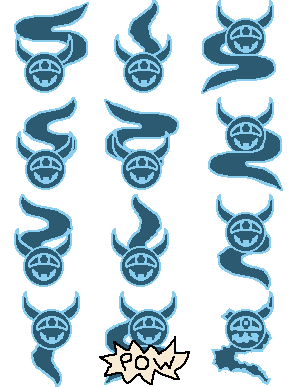
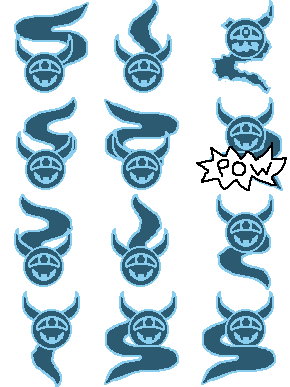
Added enemy hit animation.

diff --git a/src/scenes/Play.js b/src/scenes/Play.js
@@ -231,6 +231,9 @@ class Play extends Phaser.Scene {
             return false;
         }
         else {
+            object2.alpha = 0;
+            let pow = this.add.sprite(object2.x, object2.y, 'enemy_atlas', 'hit_0').setOrigin(0, 0);
+            pow.anims.play('hit', false);
             return true;
         }
     }
